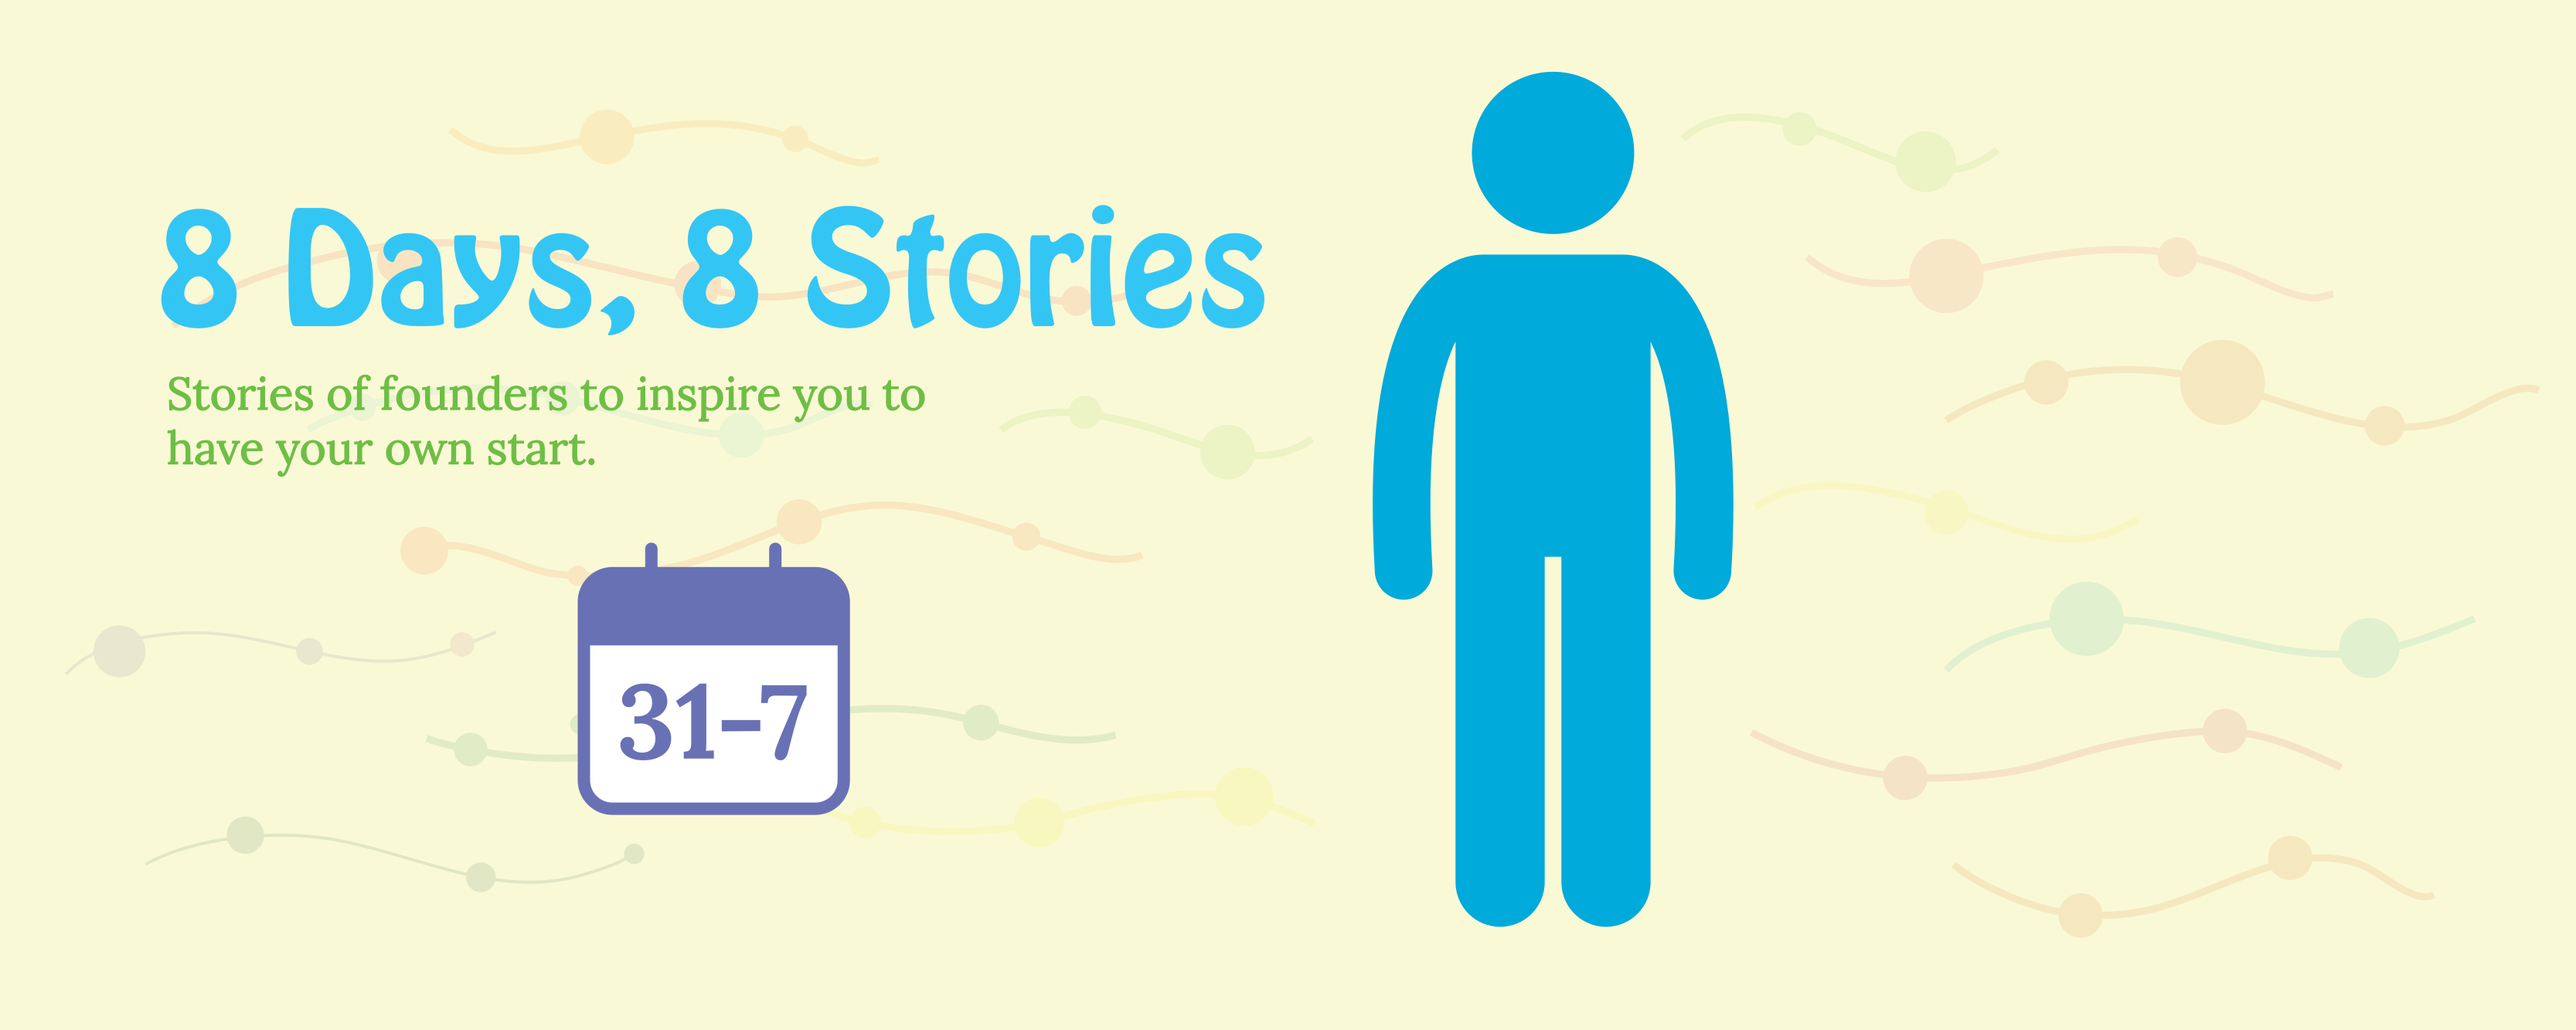
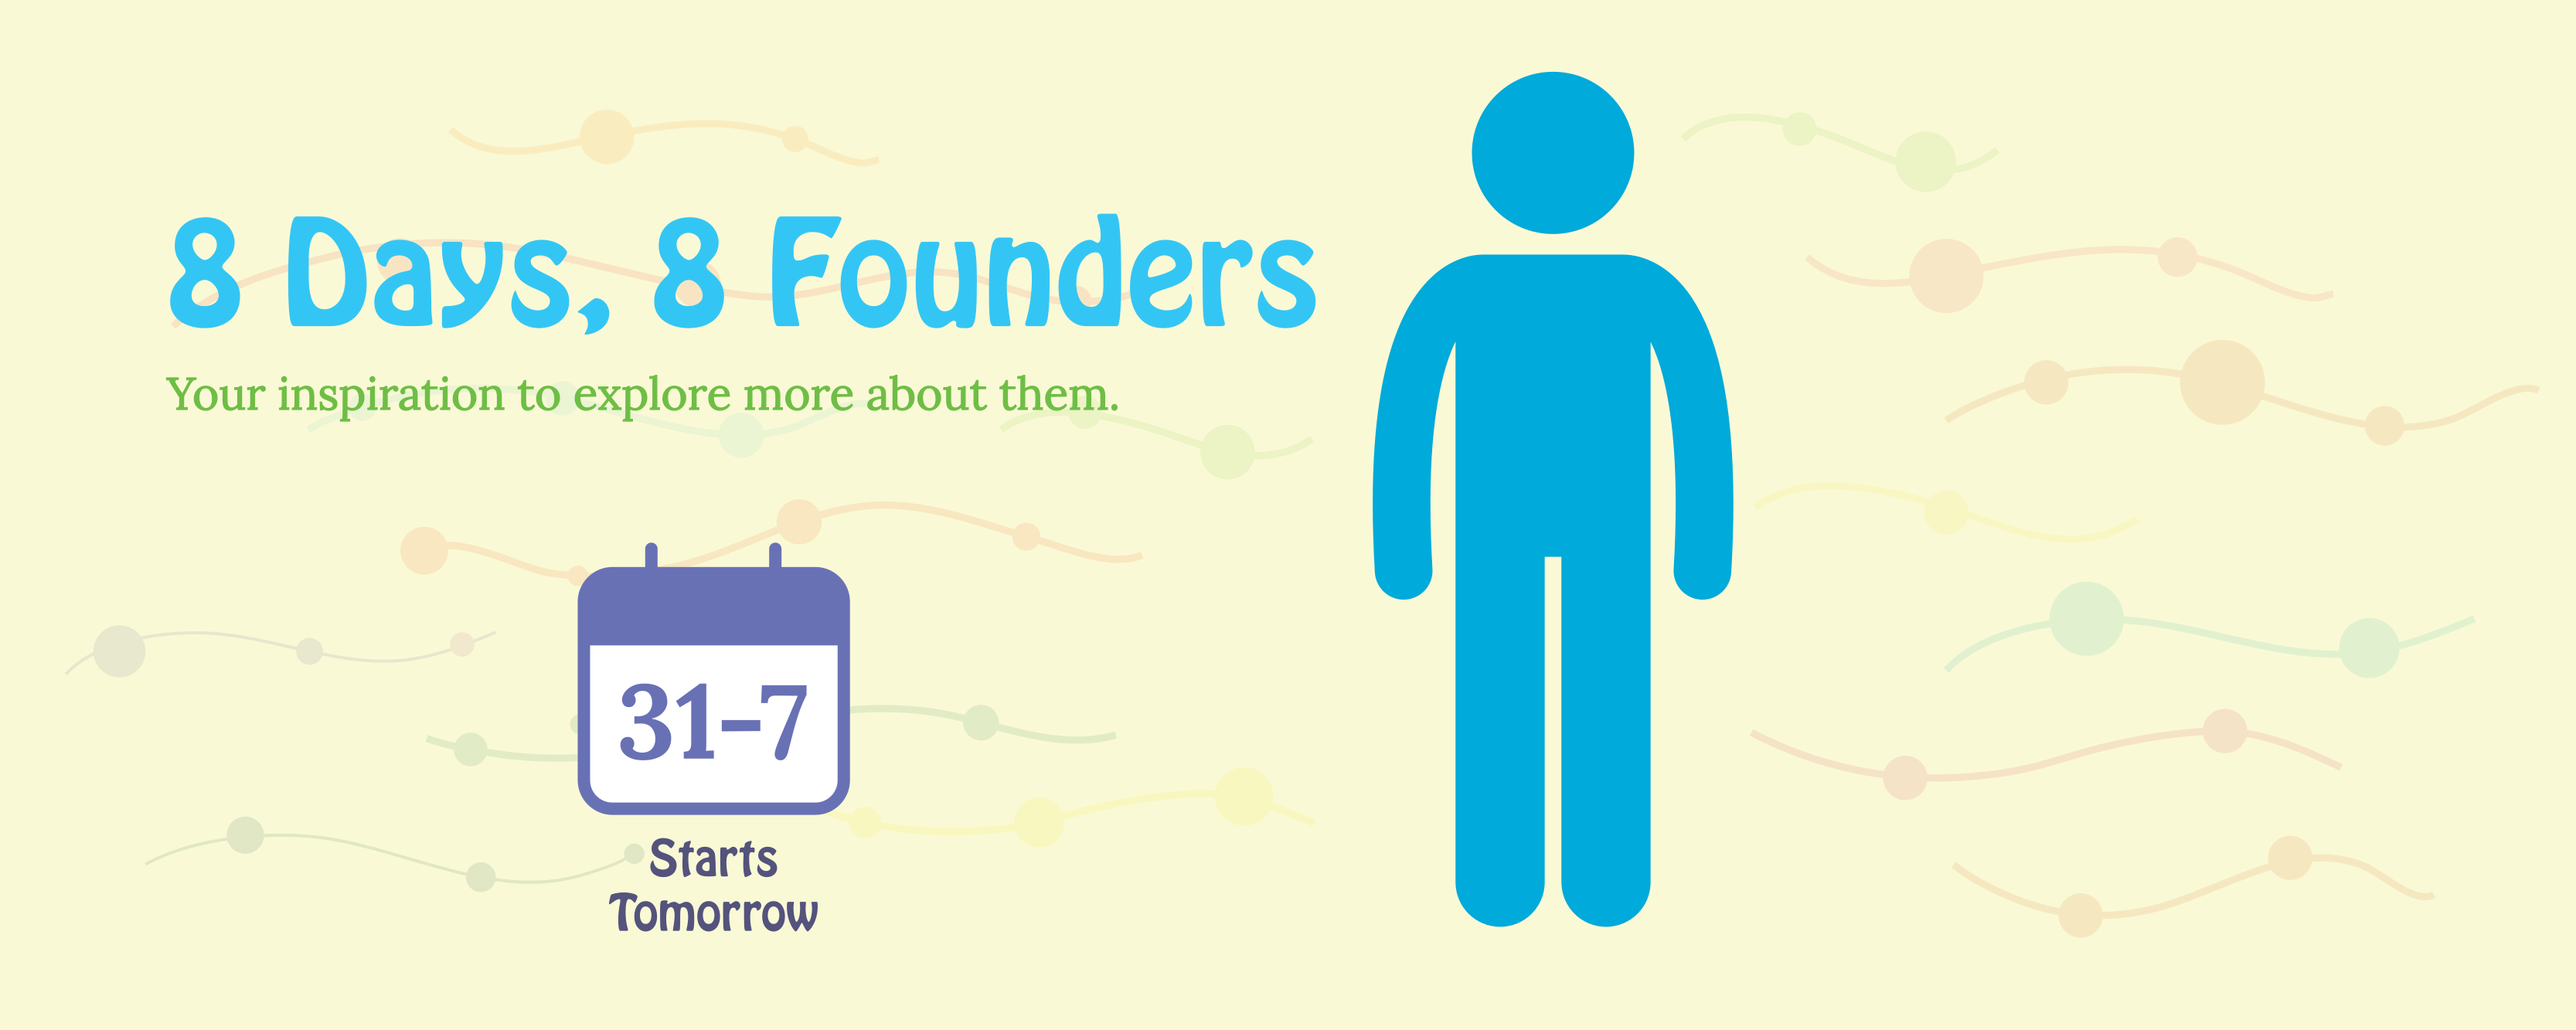
Launching Officially

diff --git a/explore.html b/explore.html
@@ -60,16 +60,16 @@
    <div class="container center col m12 l7">
 	<h6 style="color:#78a5a3"><i> Featurette </i></h6>
 	<hr class="border-blue" style="width:10%; margin:auto;"/>
-	 <h3 style="color:#78a5a3"> 'Start' Series </h3>
+	 <h3 style="color:#78a5a3"> 'Founders' Series </h3>
 	 <p style="color:#596e6e">
-	 Stories of great old ones; some living and some not; who felt the call to creative work, gave it power and time and started up in their own way;
-	 with some key insights to learn.
+	 Know in brief about founders, some living and some not, who felt the call to creative work, gave it power and time and started up in their own way;
+	 with some key lessons to learn.
 	 </p>
-	 <a href="stories.html">
-	  <button class="btn white border border-blue round">
+	 
+	  <button class="btn white border border-blue round disabled">
 	  <h4 class="wide" style="font-family:georgia; font-size:15px; color:#596e6e">DISCOVER</h4>
 	  </button>
-     </a>
+     
 	</div>
     <div class="container col m12 l5 center">
 	 <img src="./images/start.png" style="width:100%; max-width:400px; min-height:150px"/>
@@ -85,7 +85,7 @@
 	<hr class="border-orange" style="width:10%; margin:auto;"/>
 	 <h3 style="color:#b77042"> 'Start UP' Series </h3>
 	 <p style="color:#745843">
-	 Stories of startups creating valuable businesses out of identification of secrets.	 
+	 Stories of startups creating valuable businesses of 21st century.	 
 	 </p>
 	 
 	  <button class="btn white border border-orange round disabled">
